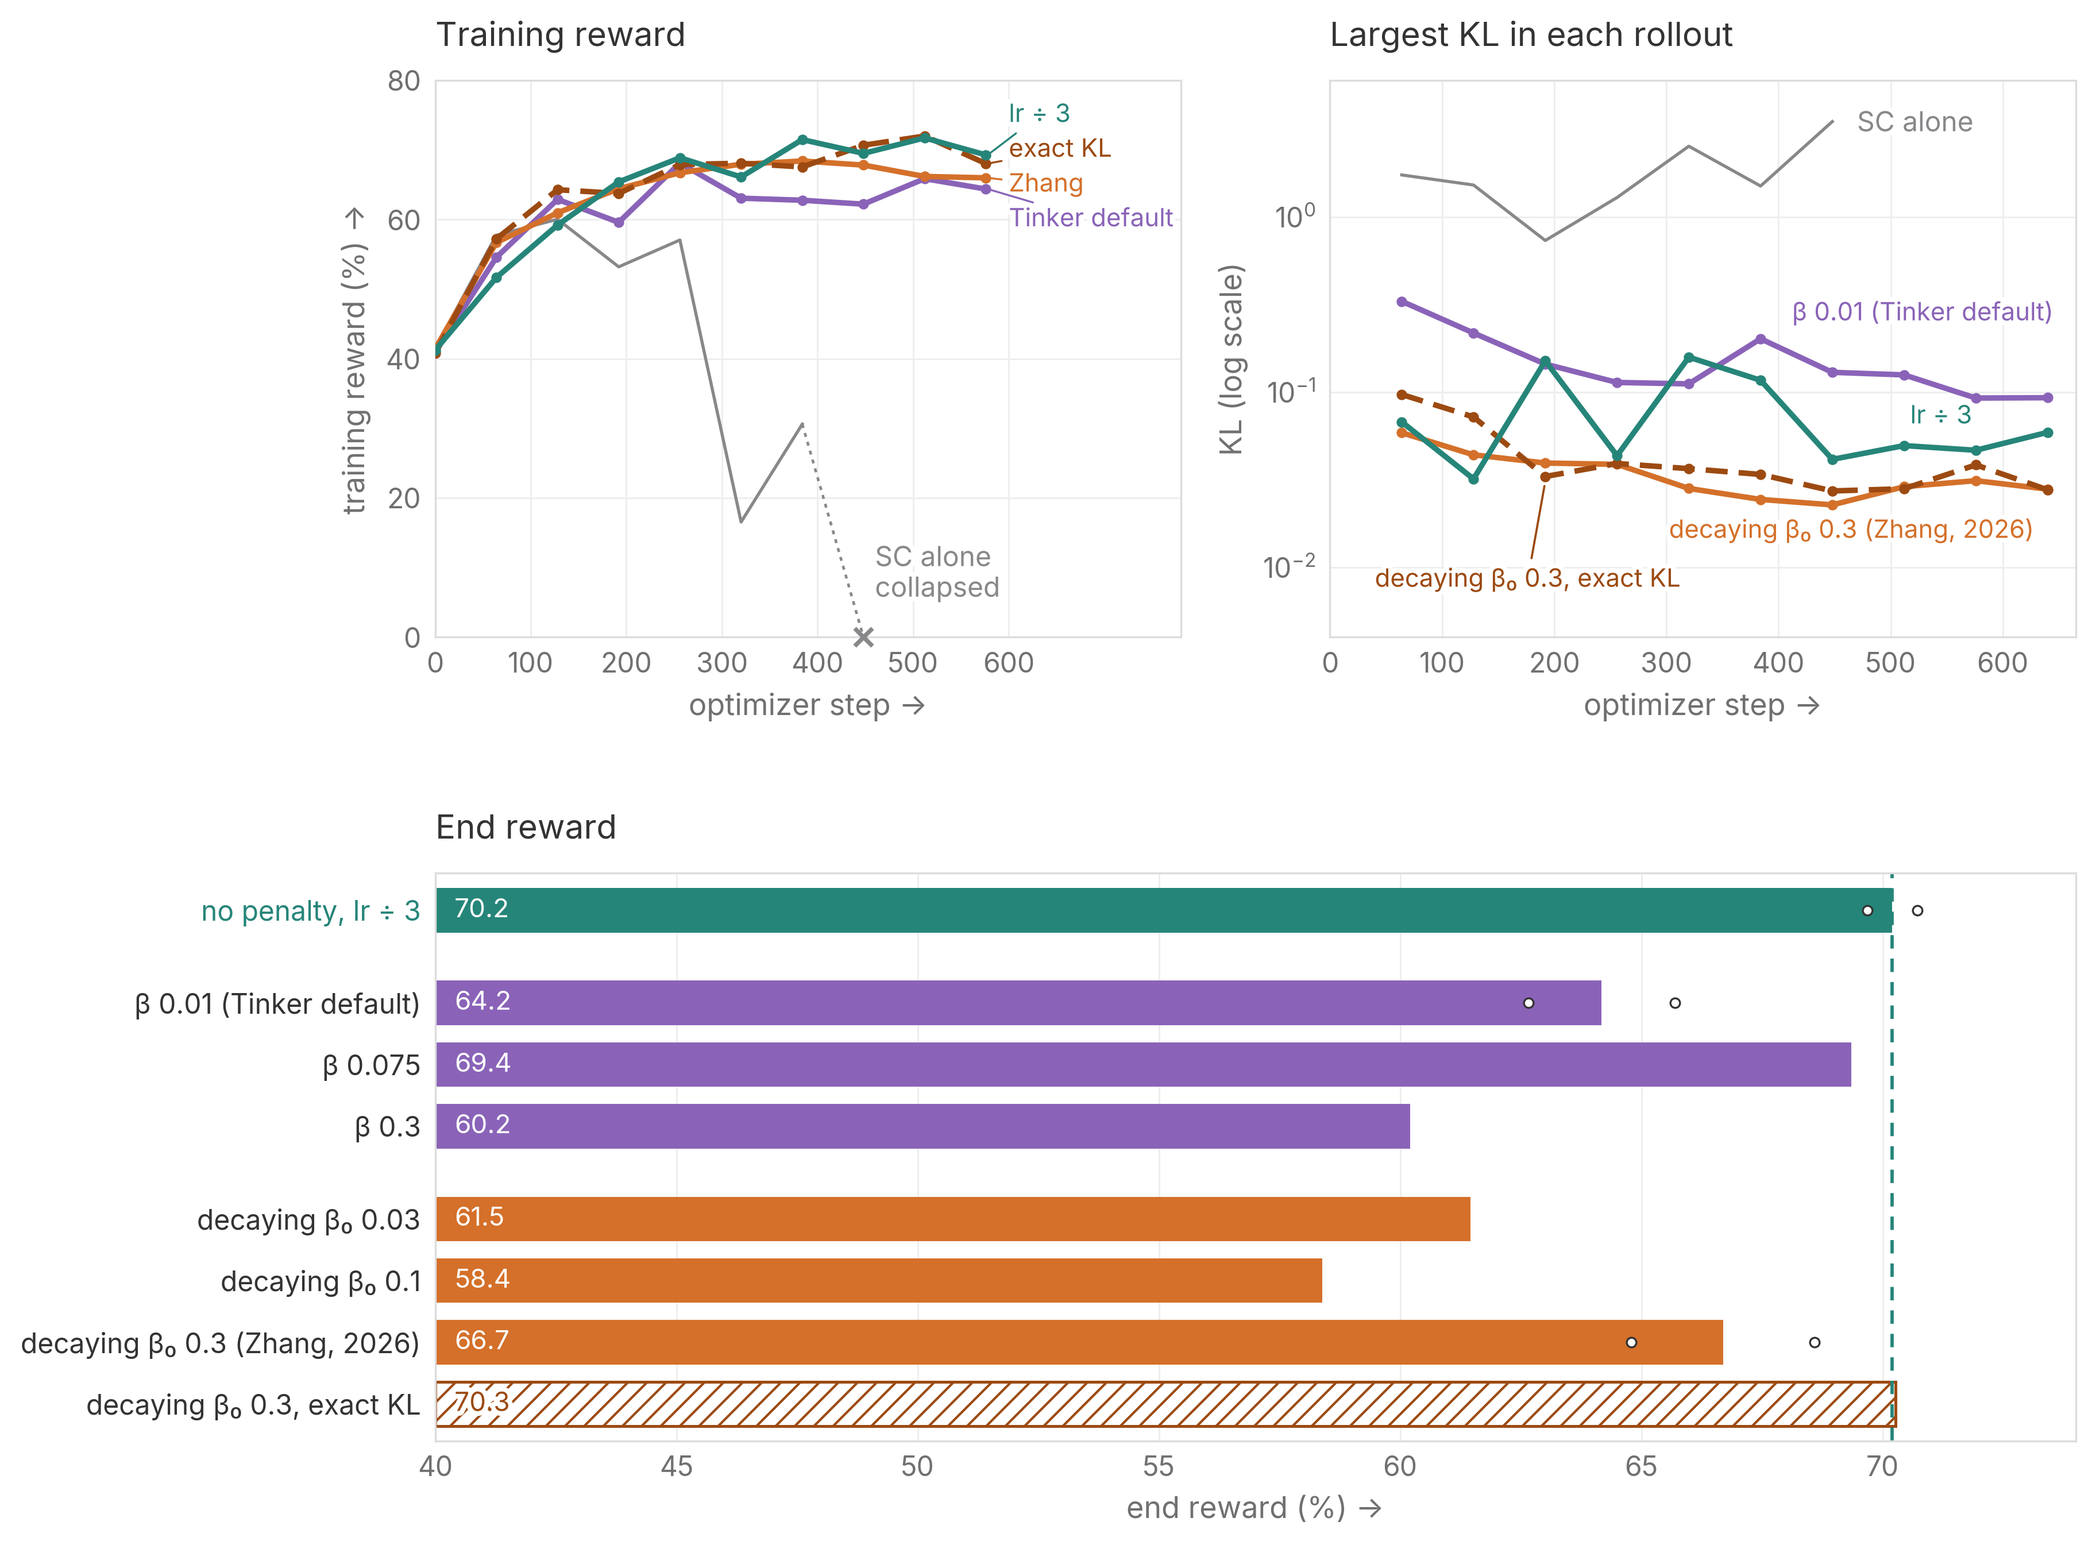
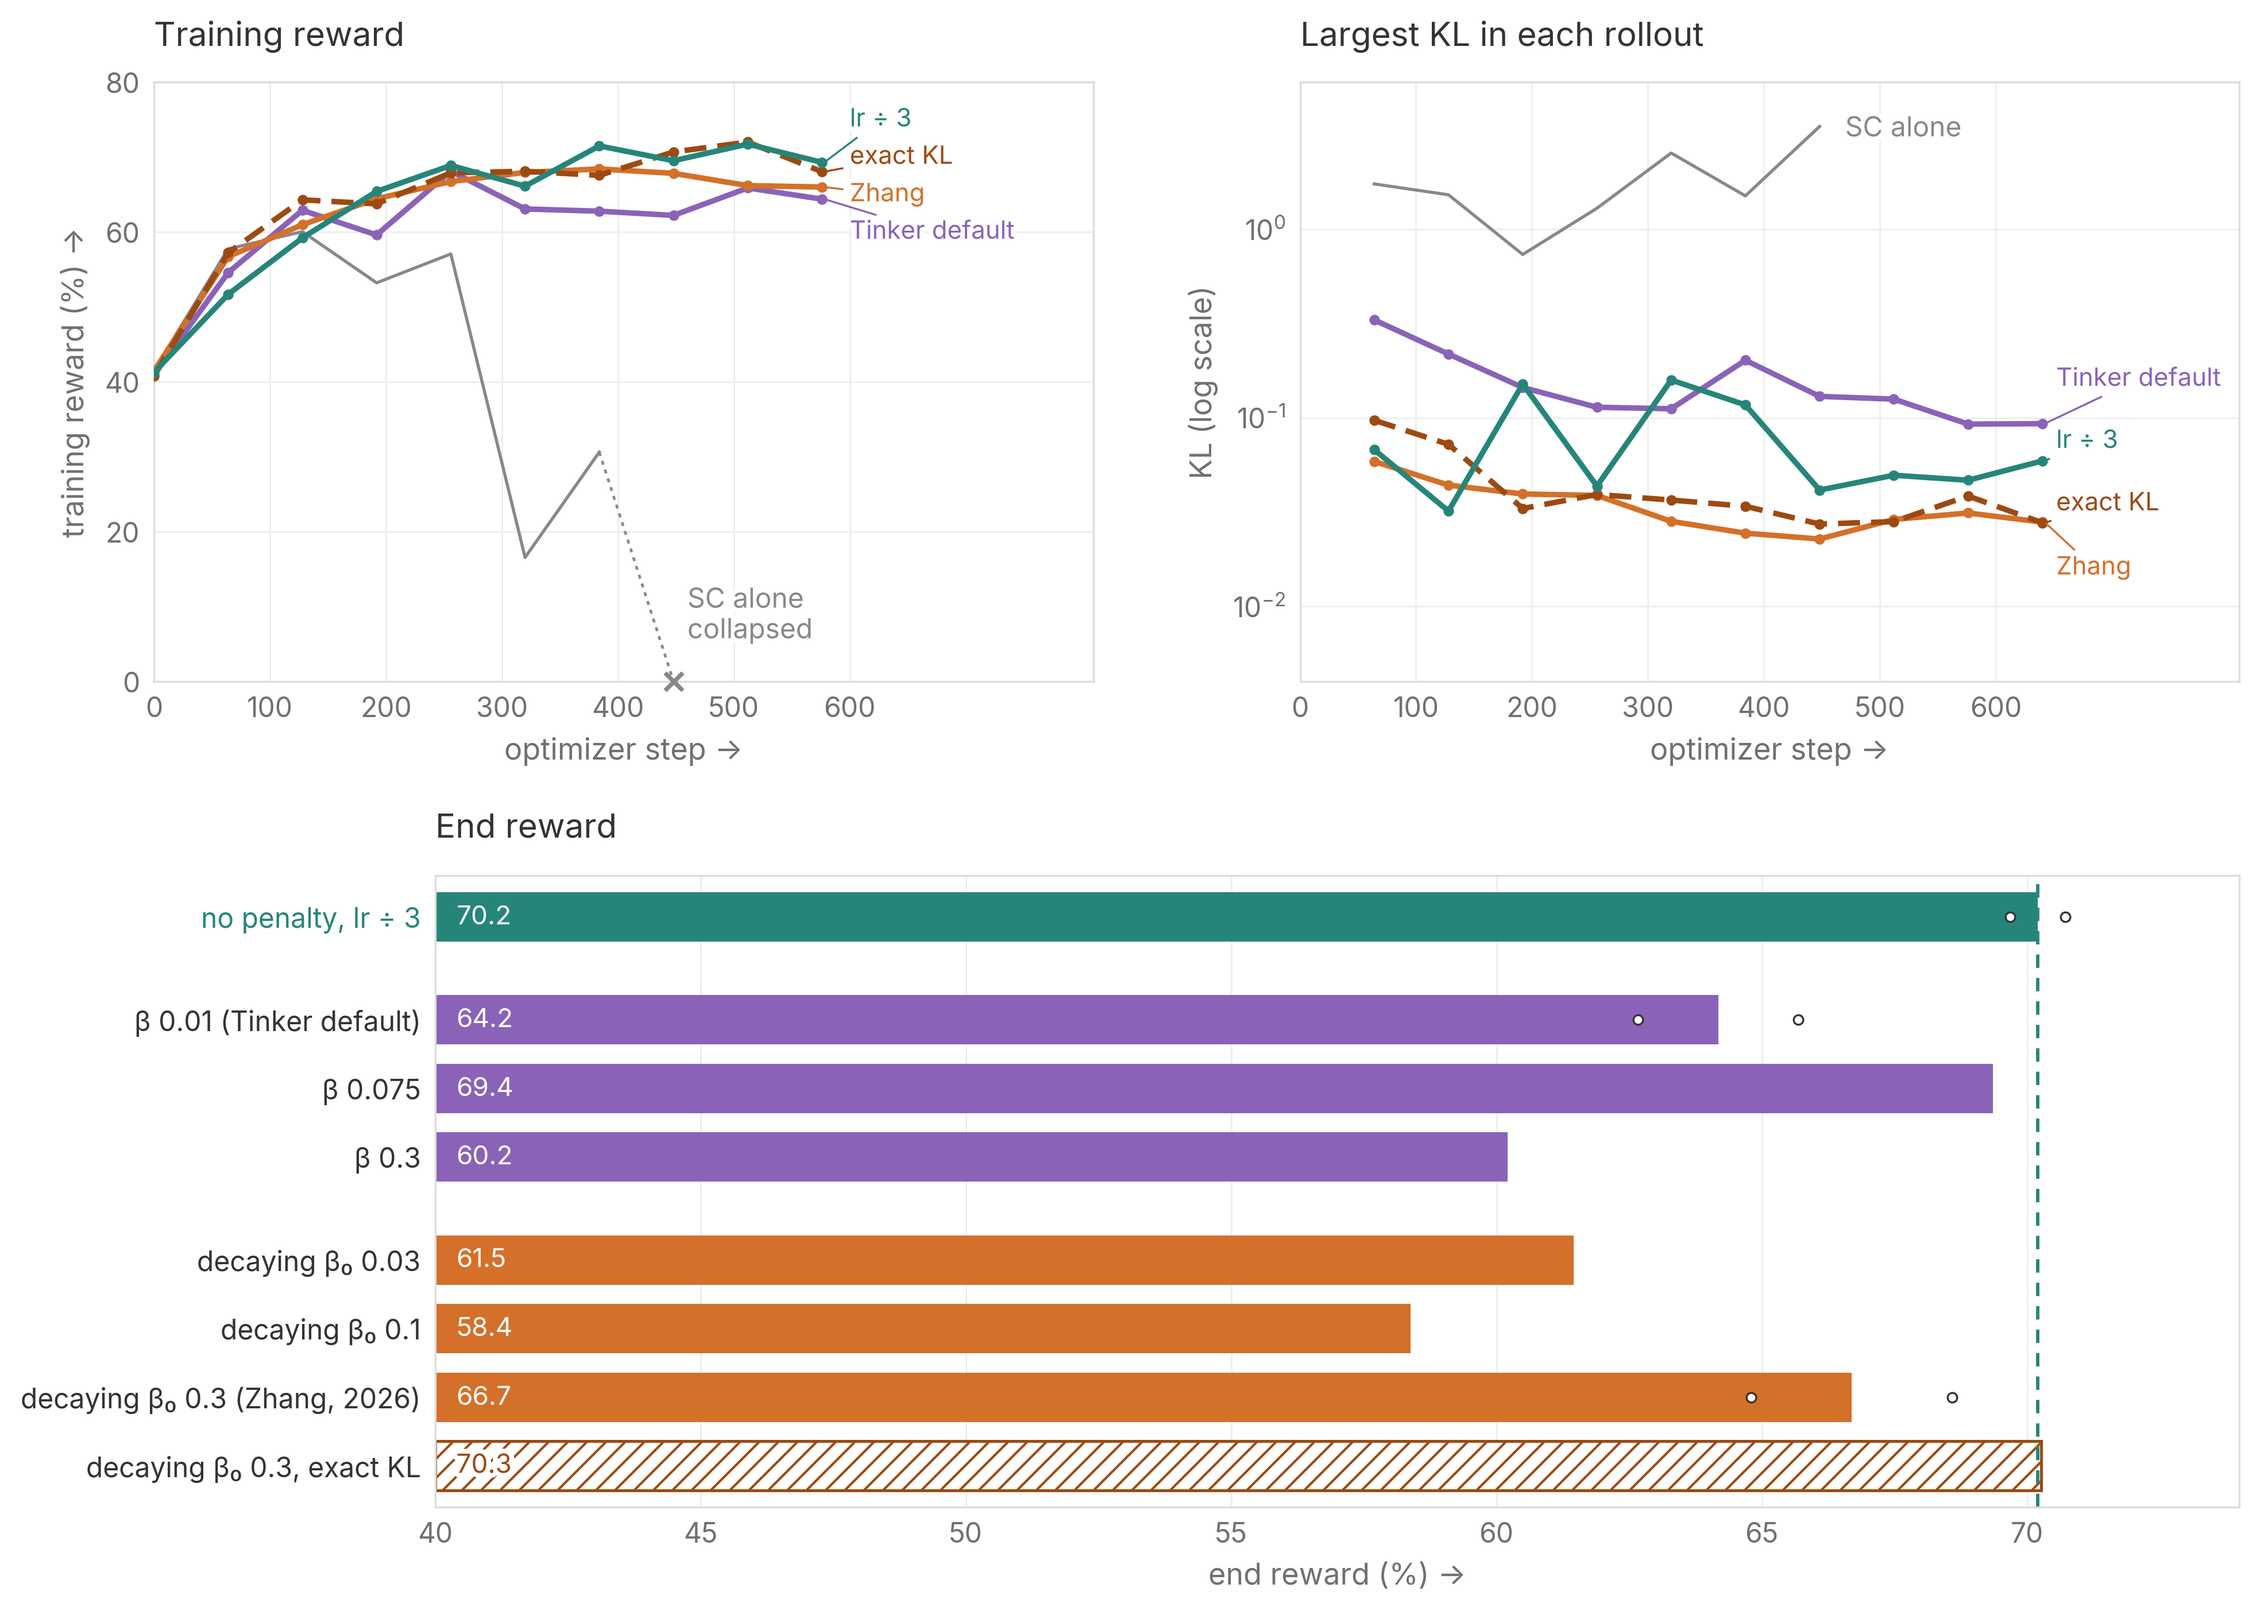
sc-drift-and-distance: Figure 16 top panels share one x range and sit centred

diff --git a/sc-drift-and-distance/index.html b/sc-drift-and-distance/index.html
@@ -246,7 +246,7 @@ html[data-theme=dark] .body figure img{filter:invert(.92) hue-rotate(180deg)}
 <p>Along a direction of curvature \(\lambda\), each step shrinks the existing displacement by a factor \(1 - \eta\beta\lambda\). After about \(1/(\eta\beta\lambda)\) steps, neither the signal nor the noise term grows any further, so the penalty limits how far the trainer can move within a rollout. It also means that after \(k\) steps, mini-batch \(j\) counts with weight \((1 - \eta\beta\lambda)^{k-j}\), so the older a mini-batch is, the less it counts. A lower learning rate weights every mini-batch equally, and for the same learning signal, equal weights leave the least noise.</p>
 </details>
 <p><a class="figref" href="#fig-16">Figure 16</a> compares penalties of different strengths with simply lowering the learning rate, at batch 32 and staleness 63, where SC alone collapses. The measured KL tells us how far to lower it. The largest KL in each rollout is about 1.6 here, against about 0.18 for SC alone at batch 512, which trains to the end. Since the KL grows with the square of the learning rate, closing that ninefold gap takes a third of the step. With the learning rate cut to a third, the largest KL falls about twentyfold, and SC trains to the end.</p>
-<figure id="fig-16"><img src="figs/fig16_kl_penalty_v5.png?v=c65e5b3201" alt="Figure 16"><figcaption><b>Figure 16.</b> KL penalties against a lower learning rate, for 0.8B on GSM8K at staleness 63 and batch 32 with SC on. The top row shows training reward and the largest KL in each rollout for the lower learning rate, the Tinker default, the schedule of <a class="cite" href="#ref-zhang2026kl">Zhang (2026)</a> with a one-token and an exact KL, and SC alone in grey. The bottom row shows the end reward, the mean of the last three rollouts. Purple bars use a constant \(\beta\), and orange bars use a \(\beta\) that decays with token age. Hatched bars use the exact KL over the sampler\'s top-32 tokens instead of a one-token estimate. Dots are individual seeds.</figcaption></figure>
+<figure id="fig-16"><img src="figs/fig16_kl_penalty_v5.png?v=0743eef6da" alt="Figure 16"><figcaption><b>Figure 16.</b> KL penalties against a lower learning rate, for 0.8B on GSM8K at staleness 63 and batch 32 with SC on. The top row shows training reward and the largest KL in each rollout for the lower learning rate, the Tinker default, the schedule of <a class="cite" href="#ref-zhang2026kl">Zhang (2026)</a> with a one-token and an exact KL, and SC alone in grey. The bottom row shows the end reward, the mean of the last three rollouts. Purple bars use a constant \(\beta\), and orange bars use a \(\beta\) that decays with token age. Hatched bars use the exact KL over the sampler\'s top-32 tokens instead of a one-token estimate. Dots are individual seeds.</figcaption></figure>
 <p><b>Every penalty stops the collapse, but only a tuned one matches the lower learning rate.</b> Tinker's default (\(\beta = 0.01\)) is too weak. It leaves the KL high and ends 6 points lower. A strong penalty (\(\beta = 0.3\)) keeps the KL lowest, yet ends 10 points lower, because it also holds back learning. Only \(\beta = 0.075\), in between, matches the lower learning rate.</p>
 <p><b>A penalty that decays with token age does no better.</b> We also ran the schedule from <a class="cite" href="#ref-zhang2026kl" title="Zhang, Y. (2026). Score Function Centering: Why a Stale Rollout Does Not Have to Be Importance Sampled. Blog post. normaluhr.github.io/en/p/score-function-centering-kl">Zhang (2026)</a>, which weakens the penalty as \(\beta_0/\sqrt{\text{age}}\) (orange in <a class="figref" href="#fig-16">Figure 16</a>). It helps over a constant penalty of the same starting strength, and the best schedule, \(\beta_0 = 0.3\) with the exact KL, only matches the lower learning rate. Zhang (2026) and StableReinforce both estimate the KL from the sampled token alone. With SC, compute the exact KL over the tokens SC already records instead, so it comes almost free. In our runs these are the sampler's top 32, and the exact KL lifts decaying \(\beta_0 = 0.3\) from 66.7 to 70.3.</p>
 <details><summary>Why a lower learning rate matches a tuned penalty</summary>
